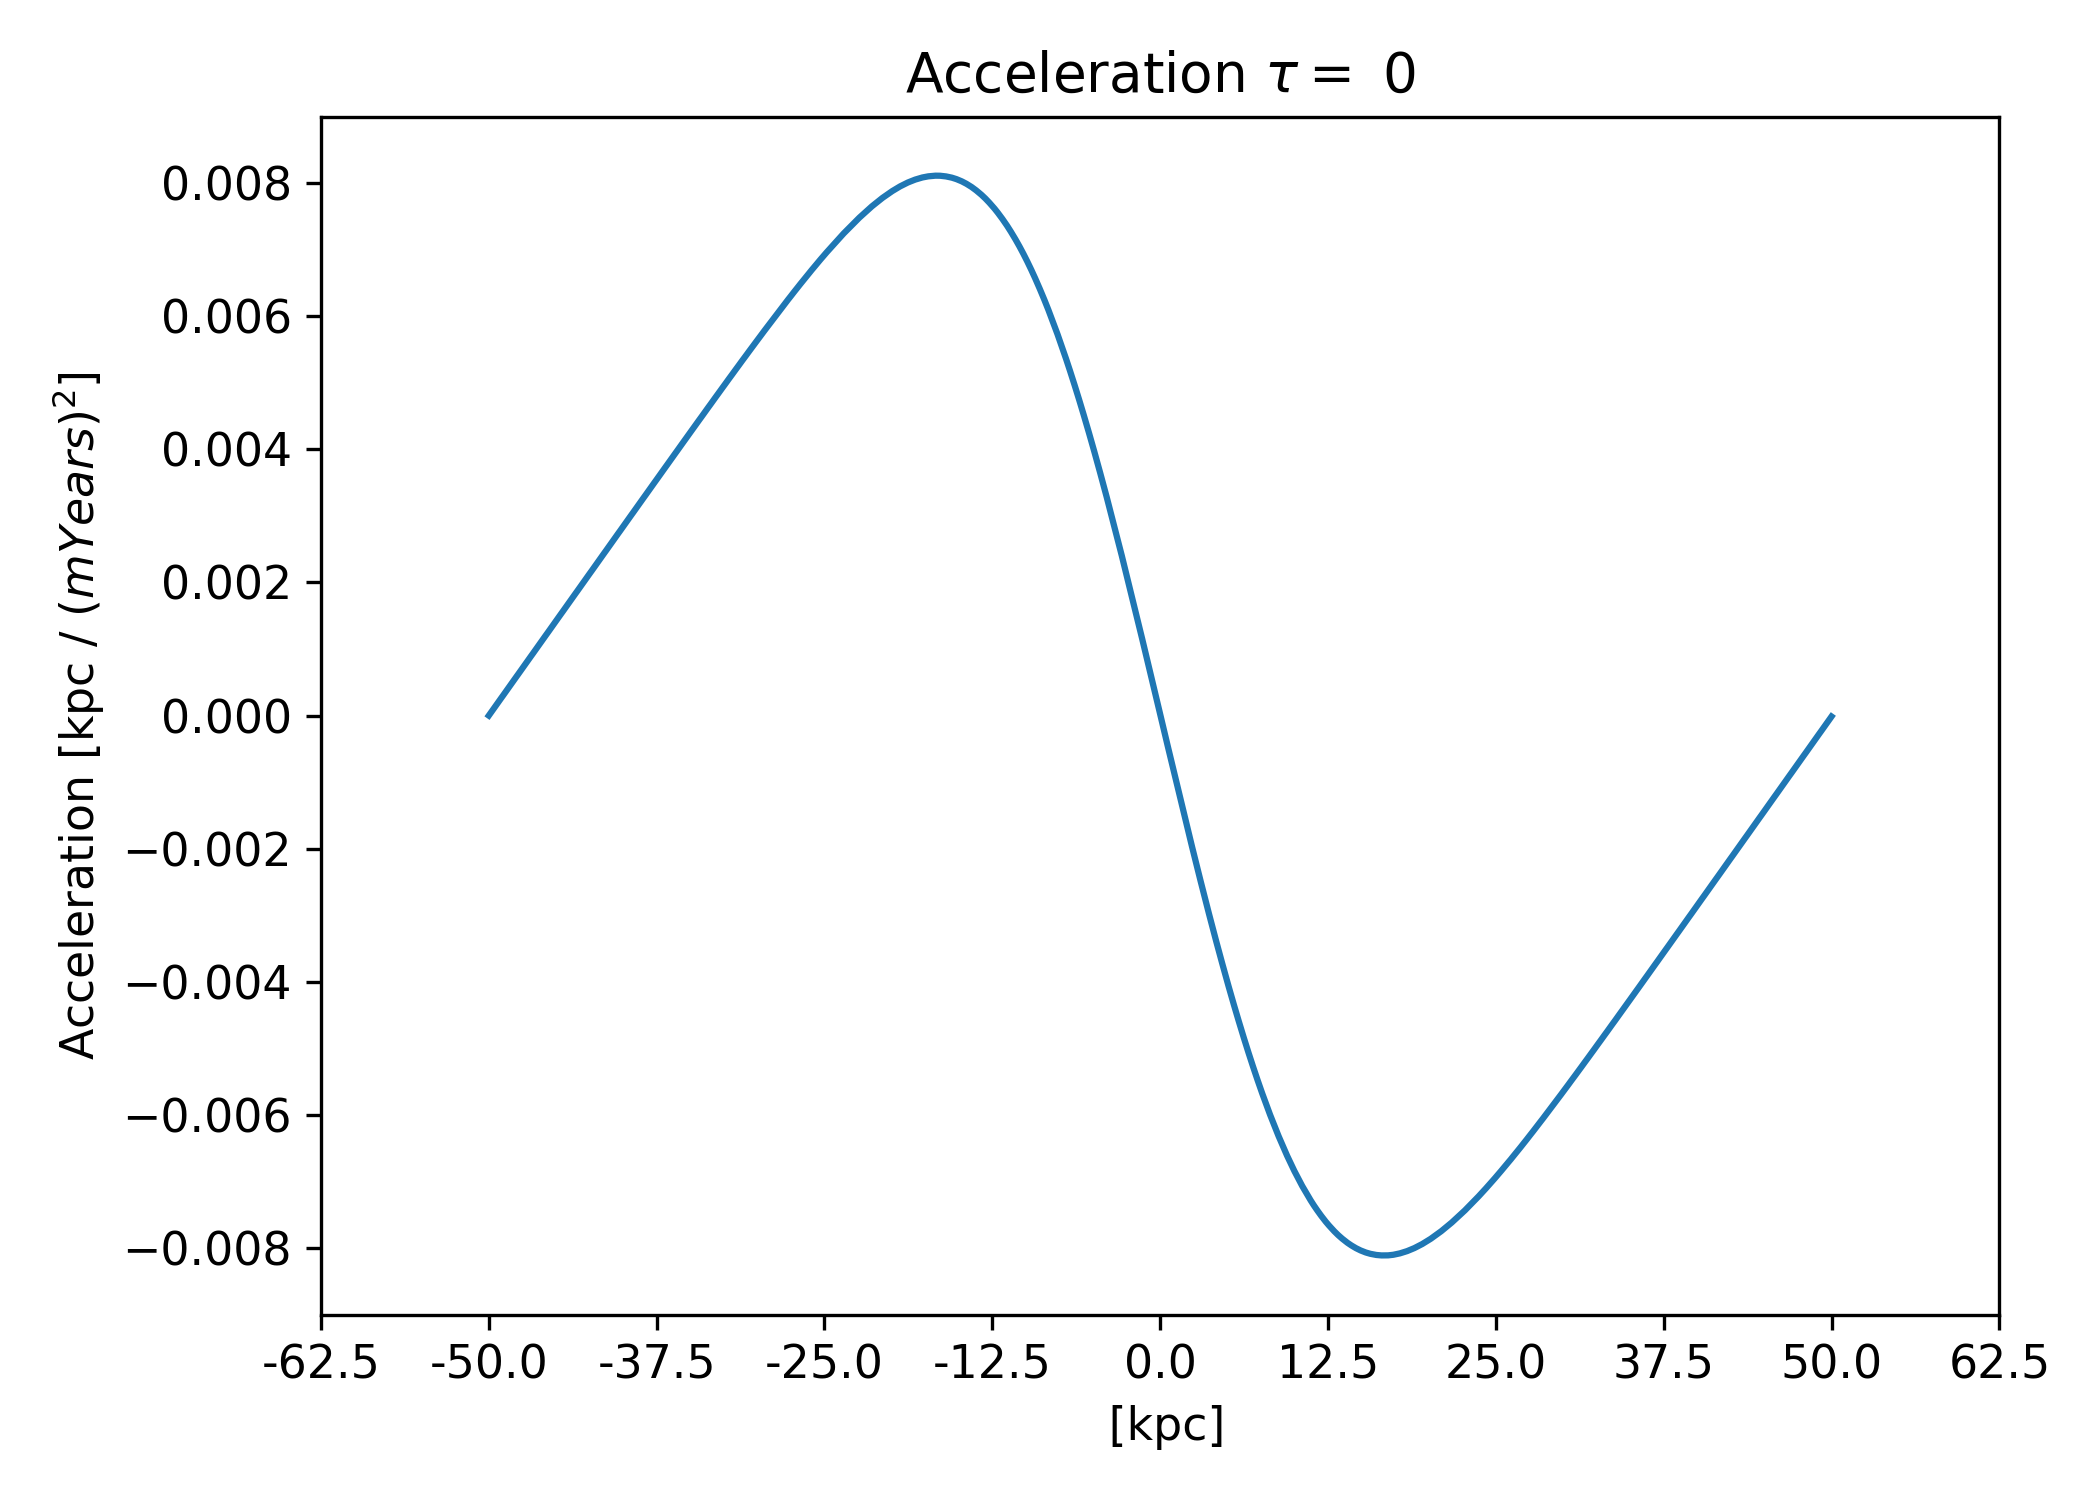
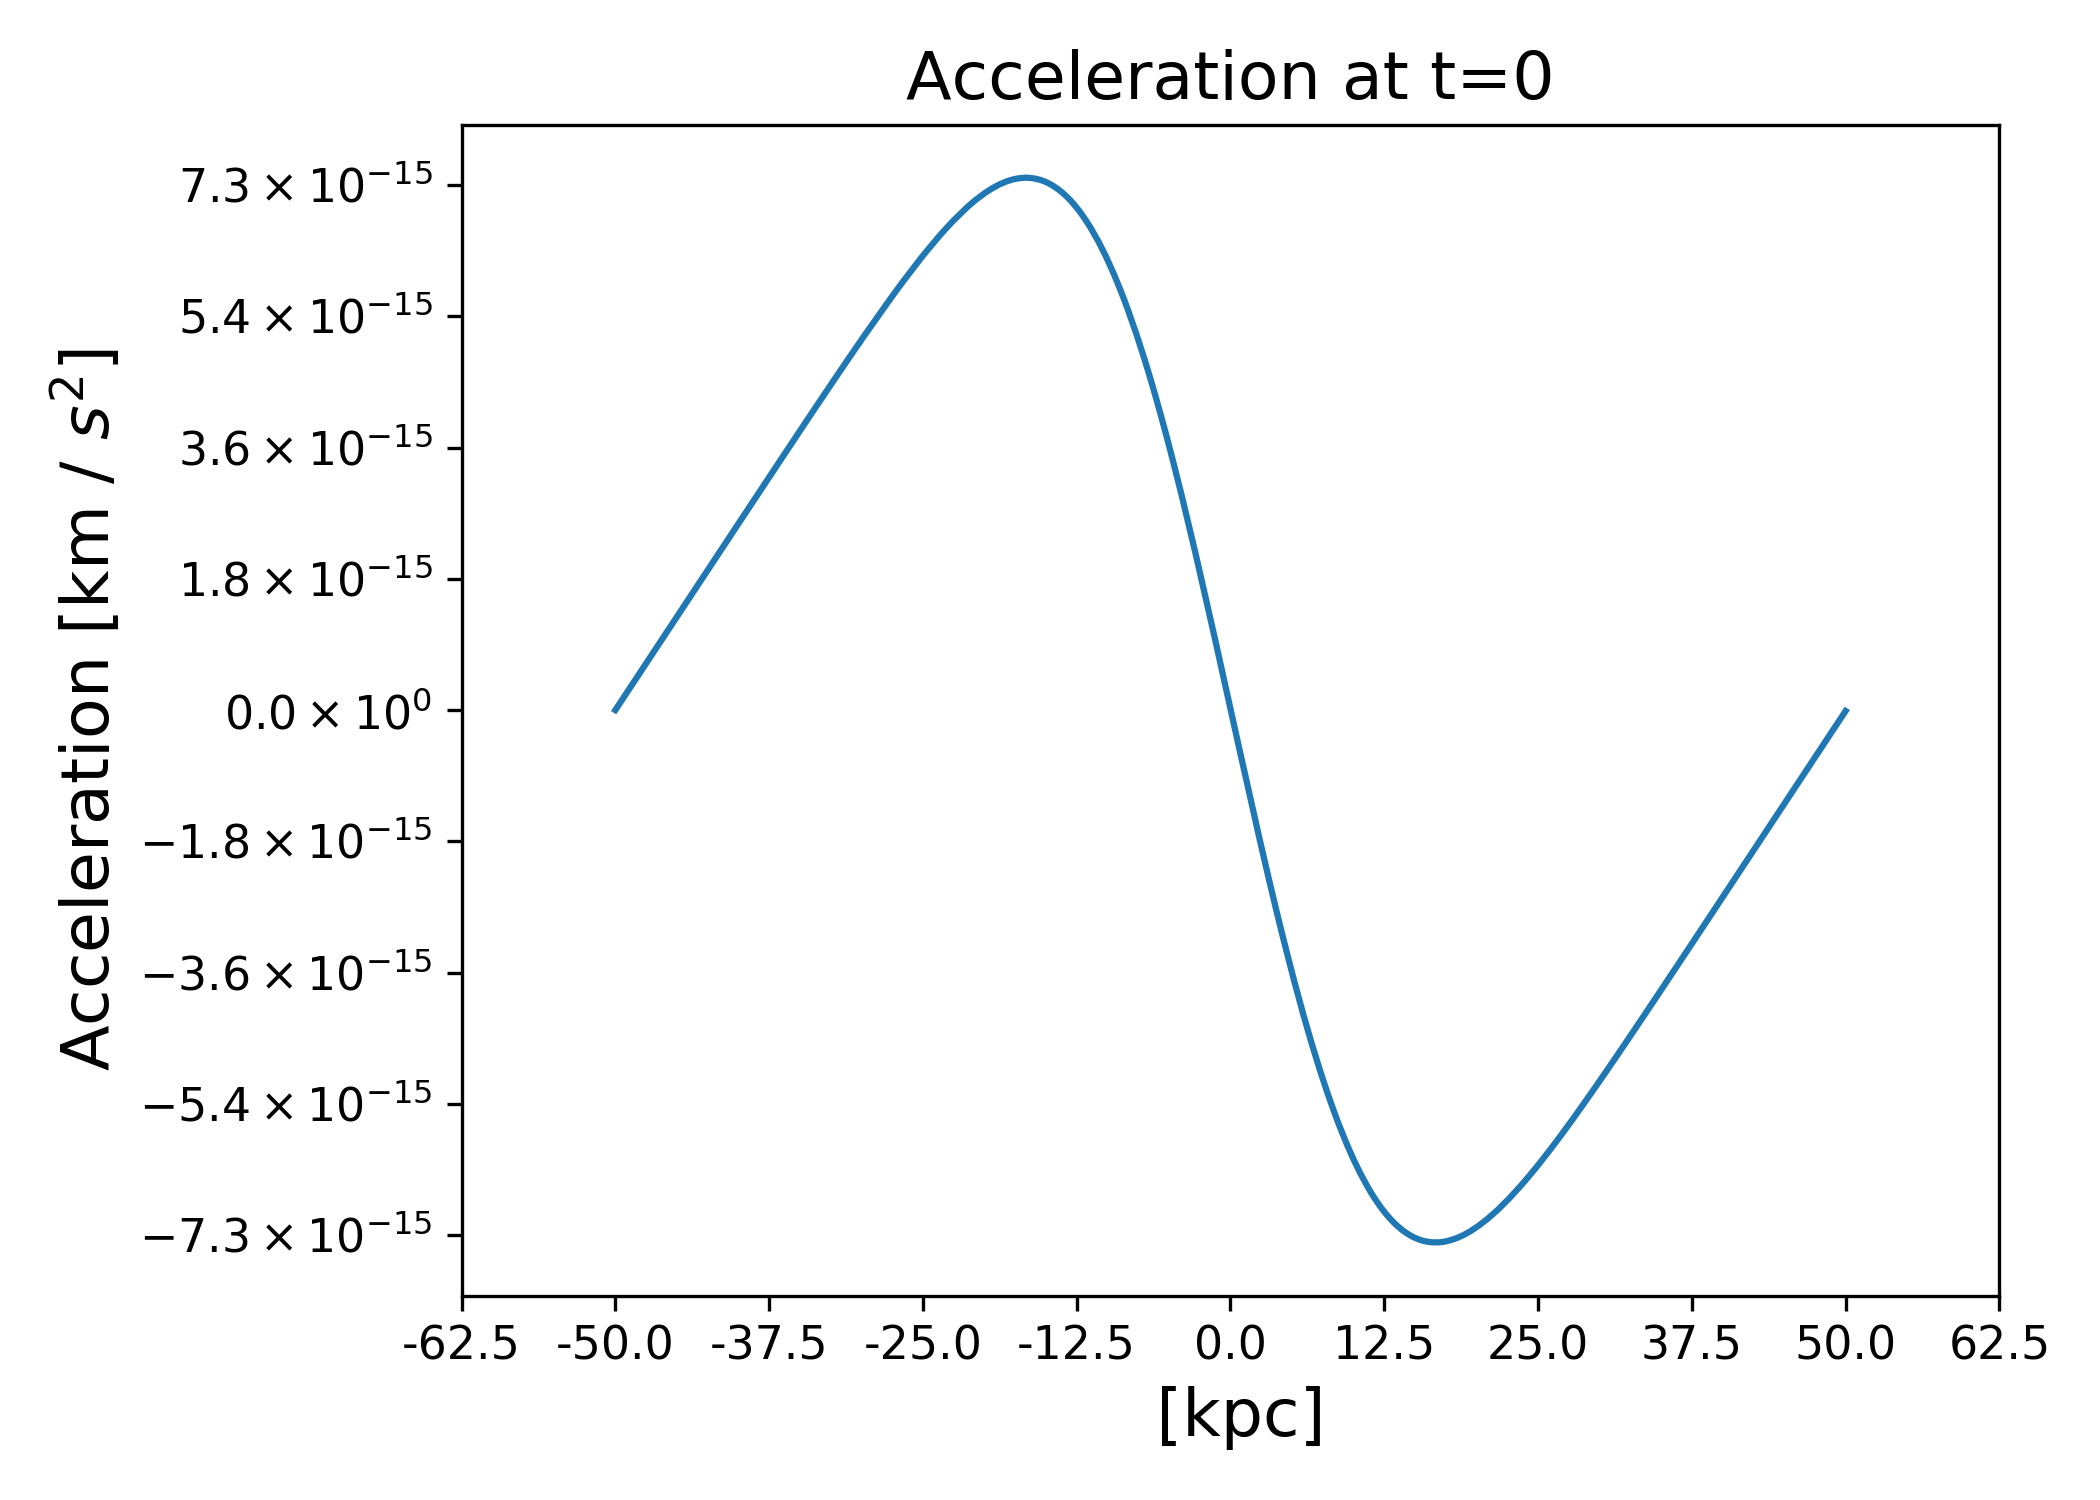
to Cluster

diff --git a/calculations.py b/calculations.py
@@ -14,16 +14,24 @@ import scipy as sc
 import decimal as dec
 D=dec.Decimal
     
+
+#1.05457148 × 10-34 m2 kg / s
 #retorna el valor de G en mis unidades
 def unidades(x, mass, times):# x en megaparsecs, mass en masas solares y times en fracción de la edad del universo.
-    x0 = 3.0857e+22 #un megaparsec en metros.
-    m0 = 1.988e30  #Masa solar en kg.
-    t0 = 13.772*1000000000 #Edad del universo en años.
-    t0 = t0*365.24*24*60*60 #Ahora en segundos.
-    G =  6.67408e-11*np.power(x*x0,-3)*(m0*mass)*np.power(times*t0,2) #G en mis unidades.
-    hubble = 70/(x*x0*1e-3)*(times*t0)*x #La constante de hubble en las unidades.
-    sv = 3e-26* np.power(x*x0*0.01,-3) * times*t0 
+    x = D(x)
+    mass = D(mass)
+    times = D(times)
+    x0 = D('3.0857e+22') #un megaparsec en metros.
+    m0 = D('1.988e30')  #Masa solar en kg.
+    t0 = D('13.772')*1000000000 #Edad del universo en años.
+    t0 = t0*D('365.24')*24*60*60 #Ahora en segundos.
+    G =  D('6.67408e-11')*np.power(x*x0,-3)*(m0*mass)*np.power(times*t0,2) #G en mis unidades.
+    hubble = 70/(x*x0*D('1e-3'))*(times*t0)*x #La constante de hubble en las unidades.
+    #sv = 3e-26* np.power(x*x0*0.01,-3) * times*t0 
+    h = D('1.05457148e-34')*np.power((x*x0),-2)/(m0*mass)*D(times*t0)
     print("La constante de Hubble es: %f" % hubble)
+    print("La constante de Planck/2pi es:")
+    print(h)
     print("La constante gravitacional es %f" % G)
     return G
     
@@ -54,6 +62,19 @@ def unidadesAcce(x,mass,times):
     sv = x/ t**2
     return sv
 
+#Retorna el valor de un metro^2 / segundo^2 en mis unidades.
+def unidadesPot(x,mass,times):
+    x = D(x)
+    mass = D(mass)
+    times = D(times)
+    x0 = D('3.0857e+22' )
+    t0 = D('13.772e9') * D('365.24')*24*60*60
+    t = times*t0
+    x = x*x0
+    #sv = D('3e-26')*(x**(-3) ) *times*t0
+    sv = x/ t
+    return sv**2
+
 #Calcula la masa de la materia oscura en mis unidades, massValue siendo la masa en eV.
 def unidadesMass(massValue, mass):
     mass = D(mass)
@@ -69,10 +90,13 @@ x = 50e-3
 m = 0.1e12
 t= 3e-3
 
-print("El valor de una unidad de velocidad es")
+print("El valor de una unidad de velocidad es [km/s]}")
 print(unidadesVel(x,m,t)/1000)
 
-print("El valor de una unidad de aceleración es")
+print("El valor de una unidad de potencial es [J/kg]")
+print(unidadesPot(x,m,t))
+
+print("El valor de una unidad de aceleración es [km/s²]")
 print(unidadesAcce(x,m,t)/1000)
 
 #newG = unidades(5,1e15,2e-1) #Clusters

diff --git a/lastPython.py b/lastPython.py
@@ -39,6 +39,8 @@ figure = plt.figure(figsize=(7,5))
 dpII = 300
 velUnit = 1183 #m/s
 estUnit = 50 #kpc
+potUnit = 1400318153625 #J/kg
+acceUnit = 9.0761782e-13 #km/s²
 
 
 #plt.imshow(dat, extent=[constantes[0],constantes[1],constantes[2],constantes[3]], interpolation='nearest', aspect='auto') #Es mucho más rápido imshow	
@@ -79,9 +81,11 @@ estUnit = 50 #kpc
 potential = np.loadtxt("./datFiles/potential{:d}.dat".format(0))
 plt.plot(x,potential)
 plt.ylabel("Potential [J /kg]",fontsize=fsize)
-plt.title("Potential $\\tau =$ {:d}".format(TAU),fontsize=fsize)
+plt.title("Potential at t=0".format(TAU),fontsize=fsize)
 #plt.ylim(-6.6e10,-5.8e10)
 plt.xticks(plt.xticks()[0], [str(t*estUnit) for t in plt.xticks()[0]])
+#plt.yticks(plt.yticks()[0], [str(np.round(t*potUnit)) for t in plt.yticks()[0]]) 
+plt.yticks(plt.yticks()[0], [fmt(np.round(t*potUnit),1) for t in plt.yticks()[0]]) 
 plt.xlabel("Position [kpc]",fontsize=fsize)
 plt.savefig("1dInitPot.png", dpi = dpII)
 plt.clf()
@@ -89,16 +93,16 @@ plt.clf()
 
 acce = np.loadtxt("./datFiles/acce{:d}.dat".format(0))
 plt.plot(x,acce)
-plt.ylabel("Acceleration [kpc / $(mYears)^2$]",fontsize=fsize)
-plt.title("Acceleration $\\tau =$ {:d}".format(TAU),fontsize=fsize)
+plt.ylabel("Acceleration [km / $s^2$]",fontsize=fsize)
+plt.title("Acceleration at t=0".format(TAU),fontsize=fsize)
 #plt.yticks(plt.yticks()[0], [str(t*2754463327) for t in plt.yticks()[0]])
 plt.xticks(plt.xticks()[0], [str(t*estUnit) for t in plt.xticks()[0]])
-
-plt.ylim(-0.009,0.009)
+plt.yticks(plt.yticks()[0], [fmt(t*acceUnit,1) for t in plt.yticks()[0]]) 
+plt.ylim(np.min(acce)*1.1,np.max(acce)*1.1)
 
 plt.xlabel(" [kpc]",fontsize=fsize)
 plt.savefig("1dInitAcce.png", dpi = dpII)
-p#lt.clf()
+#plt.clf()
 
 
 

diff --git a/simulacion3D.c b/simulacion3D.c
@@ -48,11 +48,11 @@ Simulación del espacio de fase de un fluido tridimensional de Materia Oscura co
 
 
 
-#define mParsecs 20e-3  //Cuántos megaparsecs equivalen a una unidad espacial.
-#define solarMases 1e12 //Cuántas masas solares equivalen a una unidad de masa.
+#define mParsecs 50e-3  //Cuántos megaparsecs equivalen a una unidad espacial.
+#define solarMases 1e11 //Cuántas masas solares equivalen a una unidad de masa.
 #define fracT0 3e-3     //Qué fracción de la edad del universo equivale a una unidad de tiempo
-//#define G 0.00096 //G en estas unidades. Se calcula con calculations.py
-#define G 0.959572
+//#define G 0.00096      //G en estas unidades. Se calcula con calculations.py
+#define G 0.006141
 
 #define radius 0.5
 #define MASSo 10.0
@@ -221,7 +221,7 @@ double collision(int icolx, int icoly, int icolz,  int jcolx, int jcoly, int jco
 
 double sr = 0.2;
 double sv = 0.1;
-double ampl = 4;
+double ampl = 50;
 
 
 int main()
@@ -233,7 +233,7 @@ int main()
     //phaseTemp = malloc((sizeof(double)*Nx*Ny*Nz*Nvx*Nvy*Nvz));
     if(phase == NULL){
         printf("phase es Null\n");   
-        }
+        }   
     density = malloc((sizeof(double)*Nx*Ny*Nz));
     densitytheo = malloc((sizeof(double)*Nx*Ny*Nz));
     acce = malloc((sizeof(double)*Nx*Ny*Nz*3));

diff --git a/simulacion.c b/simulacion.c
@@ -580,8 +580,8 @@ double feq2(int ipos, int jvel)
     double other = density[ipos] / sqrt(2*PI*energy[ipos]);
     double lowMach = 1.0 + giveVel(jvel)*velocity[ipos]/energy[ipos] + pow(giveVel(jvel)*velocity[ipos],2)/(2.0*energy[ipos]) - pow(velocity[ipos],2)/(2.0*energy[ipos]);
     return other * exp(ex)* lowMach;
-    
 }
+
 
 double givePos(int ito)
 {
